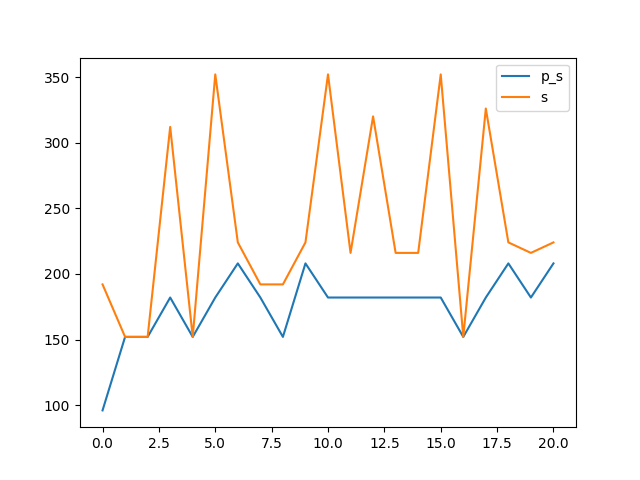
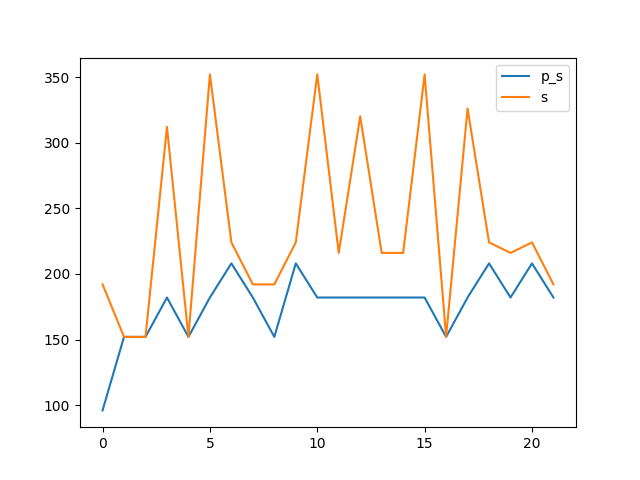
0x0015

diff --git a/benchmark.md b/benchmark.md
@@ -40,16 +40,18 @@ Synthesising 0x0013 pexact:182 r=4 exact:216 r=3
 
 Synthesising 0x0014 pexact:208 r=4 exact:224 r=3
 
+Synthesising 0x0015 pexact:182 r=4 exact:192 r=3
+
 ```mermaid
 xychart-beta
     title "Comparison powertwoexact twoexact"
-    x-axis [0, 1, 2, 3, 4, 5, 6, 7, 8, 9, 10, 11, 12, 13, 14, 15, 16, 17, 18, 19, 20]
+    x-axis [0, 1, 2, 3, 4, 5, 6, 7, 8, 9, 10, 11, 12, 13, 14, 15, 16, 17, 18, 19, 20, 21]
     y-axis "Switching Activity" 0-->352
-    line [96, 152, 152, 182, 152, 182, 208, 182, 152, 208, 182, 182, 182, 182, 182, 182, 152, 182, 208, 182, 208]
-    line [192, 152, 152, 312, 152, 352, 224, 192, 192, 224, 352, 216, 320, 216, 216, 352, 152, 326, 224, 216, 224]
-    line [175.71428571428572, 175.71428571428572, 175.71428571428572, 175.71428571428572, 175.71428571428572, 175.71428571428572, 175.71428571428572, 175.71428571428572, 175.71428571428572, 175.71428571428572, 175.71428571428572, 175.71428571428572, 175.71428571428572, 175.71428571428572, 175.71428571428572, 175.71428571428572, 175.71428571428572, 175.71428571428572, 175.71428571428572, 175.71428571428572, 175.71428571428572]
-    line [236.0952380952381, 236.0952380952381, 236.0952380952381, 236.0952380952381, 236.0952380952381, 236.0952380952381, 236.0952380952381, 236.0952380952381, 236.0952380952381, 236.0952380952381, 236.0952380952381, 236.0952380952381, 236.0952380952381, 236.0952380952381, 236.0952380952381, 236.0952380952381, 236.0952380952381, 236.0952380952381, 236.0952380952381, 236.0952380952381, 236.0952380952381]
-    bar [4, 3, 3, 4, 3, 4, 4, 4, 3, 4, 4, 4, 4, 4, 4, 4, 3, 4, 4, 4, 4, 4, 3, 3, 4, 3, 4, 4, 4, 3, 4, 4, 4, 4, 4, 4, 4, 3, 4, 4, 4, 4, 4, 3, 3, 4, 3, 4, 4, 4, 3, 4, 4, 4, 4, 4, 4, 4, 3, 4, 4, 4, 4, 4, 3, 3, 4, 3, 4, 4, 4, 3, 4, 4, 4, 4, 4, 4, 4, 3, 4, 4, 4, 4, 4, 3, 3, 4, 3, 4, 4, 4, 3, 4, 4, 4, 4, 4, 4, 4, 3, 4, 4, 4, 4, 4, 3, 3, 4, 3, 4, 4, 4, 3, 4, 4, 4, 4, 4, 4, 4, 3, 4, 4, 4, 4, 4, 3, 3, 4, 3, 4, 4, 4, 3, 4, 4, 4, 4, 4, 4, 4, 3, 4, 4, 4, 4, 4, 3, 3, 4, 3, 4, 4, 4, 3, 4, 4, 4, 4, 4, 4, 4, 3, 4, 4, 4, 4, 4, 3, 3, 4, 3, 4, 4, 4, 3, 4, 4, 4, 4, 4, 4, 4, 3, 4, 4, 4, 4, 4, 3, 3, 4, 3, 4, 4, 4, 3, 4, 4, 4, 4, 4, 4, 4, 3, 4, 4, 4, 4, 4, 3, 3, 4, 3, 4, 4, 4, 3, 4, 4, 4, 4, 4, 4, 4, 3, 4, 4, 4, 4, 4, 3, 3, 4, 3, 4, 4, 4, 3, 4, 4, 4, 4, 4, 4, 4, 3, 4, 4, 4, 4, 4, 3, 3, 4, 3, 4, 4, 4, 3, 4, 4, 4, 4, 4, 4, 4, 3, 4, 4, 4, 4, 4, 3, 3, 4, 3, 4, 4, 4, 3, 4, 4, 4, 4, 4, 4, 4, 3, 4, 4, 4, 4, 4, 3, 3, 4, 3, 4, 4, 4, 3, 4, 4, 4, 4, 4, 4, 4, 3, 4, 4, 4, 4, 4, 3, 3, 4, 3, 4, 4, 4, 3, 4, 4, 4, 4, 4, 4, 4, 3, 4, 4, 4, 4, 4, 3, 3, 4, 3, 4, 4, 4, 3, 4, 4, 4, 4, 4, 4, 4, 3, 4, 4, 4, 4, 4, 3, 3, 4, 3, 4, 4, 4, 3, 4, 4, 4, 4, 4, 4, 4, 3, 4, 4, 4, 4, 4, 3, 3, 4, 3, 4, 4, 4, 3, 4, 4, 4, 4, 4, 4, 4, 3, 4, 4, 4, 4, 4, 3, 3, 4, 3, 4, 4, 4, 3, 4, 4, 4, 4, 4, 4, 4, 3, 4, 4, 4, 4]
-    bar [4, 3, 3, 4, 3, 4, 3, 3, 3, 3, 4, 3, 4, 3, 3, 4, 3, 4, 3, 3, 3, 4, 3, 3, 4, 3, 4, 3, 3, 3, 3, 4, 3, 4, 3, 3, 4, 3, 4, 3, 3, 3, 4, 3, 3, 4, 3, 4, 3, 3, 3, 3, 4, 3, 4, 3, 3, 4, 3, 4, 3, 3, 3, 4, 3, 3, 4, 3, 4, 3, 3, 3, 3, 4, 3, 4, 3, 3, 4, 3, 4, 3, 3, 3, 4, 3, 3, 4, 3, 4, 3, 3, 3, 3, 4, 3, 4, 3, 3, 4, 3, 4, 3, 3, 3, 4, 3, 3, 4, 3, 4, 3, 3, 3, 3, 4, 3, 4, 3, 3, 4, 3, 4, 3, 3, 3, 4, 3, 3, 4, 3, 4, 3, 3, 3, 3, 4, 3, 4, 3, 3, 4, 3, 4, 3, 3, 3, 4, 3, 3, 4, 3, 4, 3, 3, 3, 3, 4, 3, 4, 3, 3, 4, 3, 4, 3, 3, 3, 4, 3, 3, 4, 3, 4, 3, 3, 3, 3, 4, 3, 4, 3, 3, 4, 3, 4, 3, 3, 3, 4, 3, 3, 4, 3, 4, 3, 3, 3, 3, 4, 3, 4, 3, 3, 4, 3, 4, 3, 3, 3, 4, 3, 3, 4, 3, 4, 3, 3, 3, 3, 4, 3, 4, 3, 3, 4, 3, 4, 3, 3, 3, 4, 3, 3, 4, 3, 4, 3, 3, 3, 3, 4, 3, 4, 3, 3, 4, 3, 4, 3, 3, 3, 4, 3, 3, 4, 3, 4, 3, 3, 3, 3, 4, 3, 4, 3, 3, 4, 3, 4, 3, 3, 3, 4, 3, 3, 4, 3, 4, 3, 3, 3, 3, 4, 3, 4, 3, 3, 4, 3, 4, 3, 3, 3, 4, 3, 3, 4, 3, 4, 3, 3, 3, 3, 4, 3, 4, 3, 3, 4, 3, 4, 3, 3, 3, 4, 3, 3, 4, 3, 4, 3, 3, 3, 3, 4, 3, 4, 3, 3, 4, 3, 4, 3, 3, 3, 4, 3, 3, 4, 3, 4, 3, 3, 3, 3, 4, 3, 4, 3, 3, 4, 3, 4, 3, 3, 3, 4, 3, 3, 4, 3, 4, 3, 3, 3, 3, 4, 3, 4, 3, 3, 4, 3, 4, 3, 3, 3, 4, 3, 3, 4, 3, 4, 3, 3, 3, 3, 4, 3, 4, 3, 3, 4, 3, 4, 3, 3, 3, 4, 3, 3, 4, 3, 4, 3, 3, 3, 3, 4, 3, 4, 3, 3, 4, 3, 4, 3, 3, 3]
+    line [96, 152, 152, 182, 152, 182, 208, 182, 152, 208, 182, 182, 182, 182, 182, 182, 152, 182, 208, 182, 208, 182]
+    line [192, 152, 152, 312, 152, 352, 224, 192, 192, 224, 352, 216, 320, 216, 216, 352, 152, 326, 224, 216, 224, 192]
+    line [176.0, 176.0, 176.0, 176.0, 176.0, 176.0, 176.0, 176.0, 176.0, 176.0, 176.0, 176.0, 176.0, 176.0, 176.0, 176.0, 176.0, 176.0, 176.0, 176.0, 176.0, 176.0]
+    line [234.0909090909091, 234.0909090909091, 234.0909090909091, 234.0909090909091, 234.0909090909091, 234.0909090909091, 234.0909090909091, 234.0909090909091, 234.0909090909091, 234.0909090909091, 234.0909090909091, 234.0909090909091, 234.0909090909091, 234.0909090909091, 234.0909090909091, 234.0909090909091, 234.0909090909091, 234.0909090909091, 234.0909090909091, 234.0909090909091, 234.0909090909091, 234.0909090909091]
+    bar [4, 3, 3, 4, 3, 4, 4, 4, 3, 4, 4, 4, 4, 4, 4, 4, 3, 4, 4, 4, 4, 4, 4, 3, 3, 4, 3, 4, 4, 4, 3, 4, 4, 4, 4, 4, 4, 4, 3, 4, 4, 4, 4, 4, 4, 3, 3, 4, 3, 4, 4, 4, 3, 4, 4, 4, 4, 4, 4, 4, 3, 4, 4, 4, 4, 4, 4, 3, 3, 4, 3, 4, 4, 4, 3, 4, 4, 4, 4, 4, 4, 4, 3, 4, 4, 4, 4, 4, 4, 3, 3, 4, 3, 4, 4, 4, 3, 4, 4, 4, 4, 4, 4, 4, 3, 4, 4, 4, 4, 4, 4, 3, 3, 4, 3, 4, 4, 4, 3, 4, 4, 4, 4, 4, 4, 4, 3, 4, 4, 4, 4, 4, 4, 3, 3, 4, 3, 4, 4, 4, 3, 4, 4, 4, 4, 4, 4, 4, 3, 4, 4, 4, 4, 4, 4, 3, 3, 4, 3, 4, 4, 4, 3, 4, 4, 4, 4, 4, 4, 4, 3, 4, 4, 4, 4, 4, 4, 3, 3, 4, 3, 4, 4, 4, 3, 4, 4, 4, 4, 4, 4, 4, 3, 4, 4, 4, 4, 4, 4, 3, 3, 4, 3, 4, 4, 4, 3, 4, 4, 4, 4, 4, 4, 4, 3, 4, 4, 4, 4, 4, 4, 3, 3, 4, 3, 4, 4, 4, 3, 4, 4, 4, 4, 4, 4, 4, 3, 4, 4, 4, 4, 4, 4, 3, 3, 4, 3, 4, 4, 4, 3, 4, 4, 4, 4, 4, 4, 4, 3, 4, 4, 4, 4, 4, 4, 3, 3, 4, 3, 4, 4, 4, 3, 4, 4, 4, 4, 4, 4, 4, 3, 4, 4, 4, 4, 4, 4, 3, 3, 4, 3, 4, 4, 4, 3, 4, 4, 4, 4, 4, 4, 4, 3, 4, 4, 4, 4, 4, 4, 3, 3, 4, 3, 4, 4, 4, 3, 4, 4, 4, 4, 4, 4, 4, 3, 4, 4, 4, 4, 4, 4, 3, 3, 4, 3, 4, 4, 4, 3, 4, 4, 4, 4, 4, 4, 4, 3, 4, 4, 4, 4, 4, 4, 3, 3, 4, 3, 4, 4, 4, 3, 4, 4, 4, 4, 4, 4, 4, 3, 4, 4, 4, 4, 4, 4, 3, 3, 4, 3, 4, 4, 4, 3, 4, 4, 4, 4, 4, 4, 4, 3, 4, 4, 4, 4, 4, 4, 3, 3, 4, 3, 4, 4, 4, 3, 4, 4, 4, 4, 4, 4, 4, 3, 4, 4, 4, 4, 4, 4, 3, 3, 4, 3, 4, 4, 4, 3, 4, 4, 4, 4, 4, 4, 4, 3, 4, 4, 4, 4, 4]
+    bar [4, 3, 3, 4, 3, 4, 3, 3, 3, 3, 4, 3, 4, 3, 3, 4, 3, 4, 3, 3, 3, 3, 4, 3, 3, 4, 3, 4, 3, 3, 3, 3, 4, 3, 4, 3, 3, 4, 3, 4, 3, 3, 3, 3, 4, 3, 3, 4, 3, 4, 3, 3, 3, 3, 4, 3, 4, 3, 3, 4, 3, 4, 3, 3, 3, 3, 4, 3, 3, 4, 3, 4, 3, 3, 3, 3, 4, 3, 4, 3, 3, 4, 3, 4, 3, 3, 3, 3, 4, 3, 3, 4, 3, 4, 3, 3, 3, 3, 4, 3, 4, 3, 3, 4, 3, 4, 3, 3, 3, 3, 4, 3, 3, 4, 3, 4, 3, 3, 3, 3, 4, 3, 4, 3, 3, 4, 3, 4, 3, 3, 3, 3, 4, 3, 3, 4, 3, 4, 3, 3, 3, 3, 4, 3, 4, 3, 3, 4, 3, 4, 3, 3, 3, 3, 4, 3, 3, 4, 3, 4, 3, 3, 3, 3, 4, 3, 4, 3, 3, 4, 3, 4, 3, 3, 3, 3, 4, 3, 3, 4, 3, 4, 3, 3, 3, 3, 4, 3, 4, 3, 3, 4, 3, 4, 3, 3, 3, 3, 4, 3, 3, 4, 3, 4, 3, 3, 3, 3, 4, 3, 4, 3, 3, 4, 3, 4, 3, 3, 3, 3, 4, 3, 3, 4, 3, 4, 3, 3, 3, 3, 4, 3, 4, 3, 3, 4, 3, 4, 3, 3, 3, 3, 4, 3, 3, 4, 3, 4, 3, 3, 3, 3, 4, 3, 4, 3, 3, 4, 3, 4, 3, 3, 3, 3, 4, 3, 3, 4, 3, 4, 3, 3, 3, 3, 4, 3, 4, 3, 3, 4, 3, 4, 3, 3, 3, 3, 4, 3, 3, 4, 3, 4, 3, 3, 3, 3, 4, 3, 4, 3, 3, 4, 3, 4, 3, 3, 3, 3, 4, 3, 3, 4, 3, 4, 3, 3, 3, 3, 4, 3, 4, 3, 3, 4, 3, 4, 3, 3, 3, 3, 4, 3, 3, 4, 3, 4, 3, 3, 3, 3, 4, 3, 4, 3, 3, 4, 3, 4, 3, 3, 3, 3, 4, 3, 3, 4, 3, 4, 3, 3, 3, 3, 4, 3, 4, 3, 3, 4, 3, 4, 3, 3, 3, 3, 4, 3, 3, 4, 3, 4, 3, 3, 3, 3, 4, 3, 4, 3, 3, 4, 3, 4, 3, 3, 3, 3, 4, 3, 3, 4, 3, 4, 3, 3, 3, 3, 4, 3, 4, 3, 3, 4, 3, 4, 3, 3, 3, 3, 4, 3, 3, 4, 3, 4, 3, 3, 3, 3, 4, 3, 4, 3, 3, 4, 3, 4, 3, 3, 3, 3]
 ```
 
